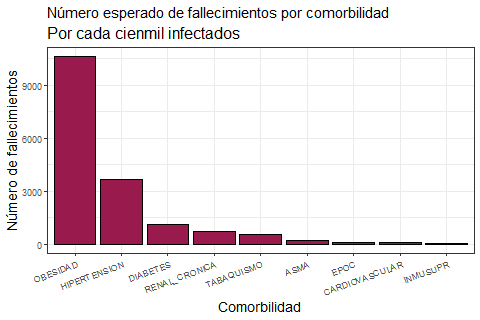
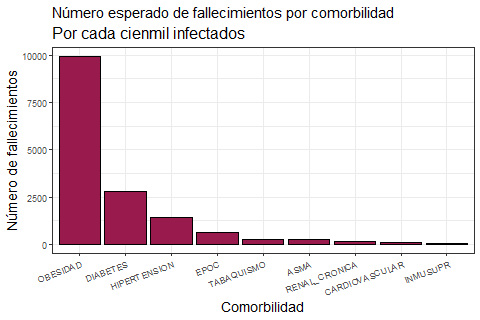
pregunta 3 actualizada

diff --git a/fallecimientos_esperados_comorbilidades.tex b/fallecimientos_esperados_comorbilidades.tex
@@ -1,20 +1,20 @@
 % latex table generated in R 4.0.2 by xtable 1.8-4 package
-% Thu Jan 28 17:55:12 2021
+% Sat Jan 30 18:07:22 2021
 \begin{table}[ht]
 \centering
 \begin{tabular}{rlrrr}
   \hline
  & comorbilidades & Esperanza & porct\_comorb & Numero\_esperado \\ 
   \hline
-1 & HIPERTENSION & 0.14 & 25.50 & 3668.00 \\ 
-  2 & OBESIDAD & 0.14 & 75.20 & 10611.00 \\ 
-  3 & DIABETES & 0.11 & 10.30 & 1123.00 \\ 
-  4 & TABAQUISMO & 0.07 & 8.80 & 578.00 \\ 
-  5 & ASMA & 0.02 & 10.00 & 225.00 \\ 
+1 & DIABETES & 0.11 & 25.50 & 2781.00 \\ 
+  2 & EPOC & 0.01 & 75.20 & 634.00 \\ 
+  3 & ASMA & 0.02 & 10.30 & 232.00 \\ 
+  4 & INMUSUPR & 0.01 & 8.80 & 65.00 \\ 
+  5 & HIPERTENSION & 0.14 & 10.00 & 1438.00 \\ 
   6 & CARDIOVASCULAR & 0.01 & 7.00 & 90.00 \\ 
-  7 & RENAL\_CRONICA & 0.01 & 70.30 & 729.00 \\ 
-  8 & EPOC & 0.01 & 12.20 & 103.00 \\ 
-  9 & INMUSUPR & 0.01 & 4.00 & 29.00 \\ 
+  7 & OBESIDAD & 0.14 & 70.30 & 9920.00 \\ 
+  8 & RENAL\_CRONICA & 0.01 & 12.20 & 127.00 \\ 
+  9 & TABAQUISMO & 0.07 & 4.00 & 263.00 \\ 
    \hline
 \end{tabular}
 \end{table}

diff --git a/probabilidad_comorbilidades.tex b/probabilidad_comorbilidades.tex
@@ -1,20 +1,20 @@
 % latex table generated in R 4.0.2 by xtable 1.8-4 package
-% Sat Jan 23 22:44:38 2021
+% Sat Jan 30 18:07:06 2021
 \begin{table}[ht]
 \centering
 \begin{tabular}{rlr}
   \hline
  & comorbilidades & Esperanza \\ 
   \hline
-1 & HIPERTENSION & 0.14 \\ 
-  2 & OBESIDAD & 0.14 \\ 
-  3 & DIABETES & 0.11 \\ 
-  4 & TABAQUISMO & 0.07 \\ 
-  5 & ASMA & 0.02 \\ 
+1 & DIABETES & 0.11 \\ 
+  2 & EPOC & 0.01 \\ 
+  3 & ASMA & 0.02 \\ 
+  4 & INMUSUPR & 0.01 \\ 
+  5 & HIPERTENSION & 0.14 \\ 
   6 & CARDIOVASCULAR & 0.01 \\ 
-  7 & RENAL\_CRONICA & 0.01 \\ 
-  8 & EPOC & 0.01 \\ 
-  9 & INMUSUPR & 0.01 \\ 
+  7 & OBESIDAD & 0.14 \\ 
+  8 & RENAL\_CRONICA & 0.01 \\ 
+  9 & TABAQUISMO & 0.07 \\ 
    \hline
 \end{tabular}
 \end{table}
